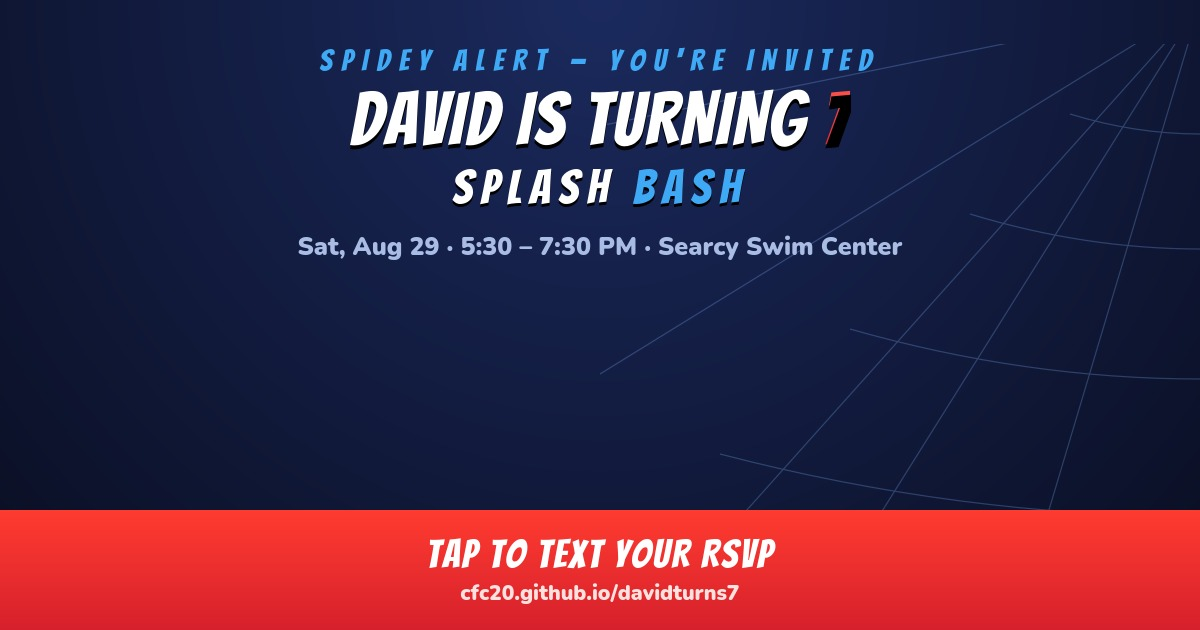
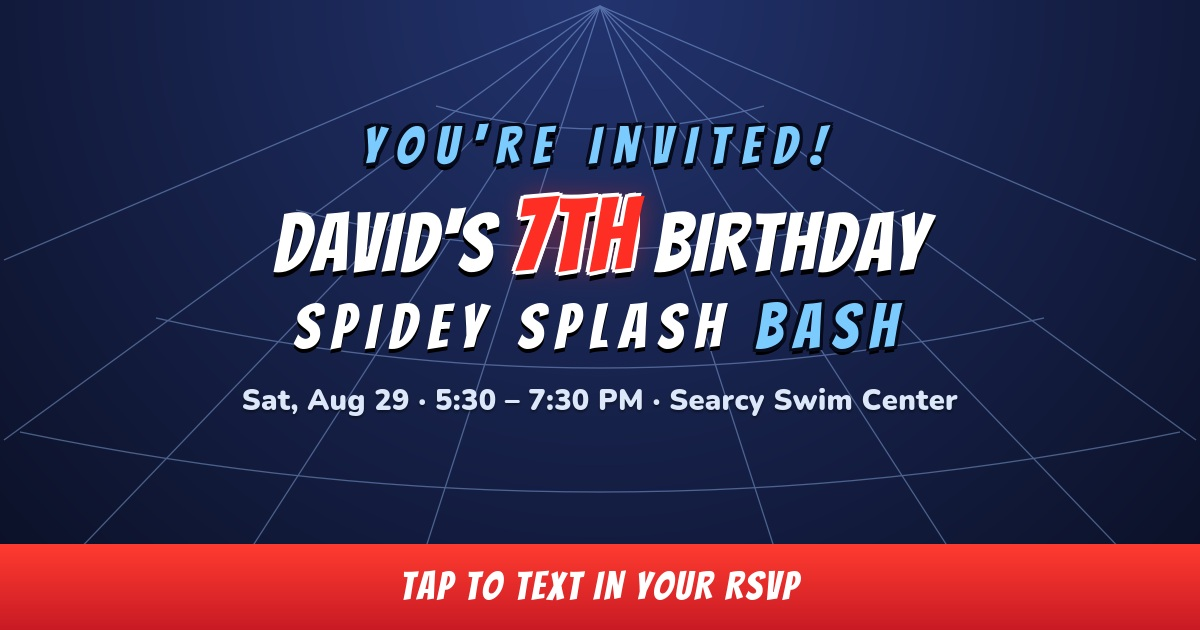
Add files via upload

diff --git a/index.html b/index.html
@@ -3,19 +3,19 @@
 <head>
 <meta charset="UTF-8">
 <meta name="viewport" content="width=device-width, initial-scale=1.0">
-<title>David's 7th Birthday — Spidey Splash Bash</title>
+<title>You're Invited! David's 7th Birthday - Spidey Splash Bash</title>
 <meta name="theme-color" content="#0B1026">
 
-<meta property="og:title" content="🕷 David's 7th Birthday Spidey Splash Bash - You're Invited!">
-<meta property="og:description" content="Saturday, August 29 · 5:30 to 7:30 PM · Searcy Swim Center. Private pool party, pizza and cupcakes. Tap to RSVP instantly.">
-<meta property="og:image" content="https://cfc20.github.io/davidturns7/preview.jpg">
+<meta property="og:title" content="You're Invited! 🕷 David's 7th Birthday - Spidey Splash Bash">
+<meta property="og:description" content="Sat, Aug 29 · 5:30 p.m. to 7:30 p.m. · Searcy Swim Center. Private pool party with pizza and cupcakes. Siblings welcome. Tap to RSVP instantly!">
+<meta property="og:image" content="https://cfc20.github.io/davidturns7/preview.jpg?v=9">
 <meta property="og:url" content="https://cfc20.github.io/davidturns7/">
 <meta property="og:type" content="website">
 <meta name="twitter:card" content="summary_large_image">
-<meta name="twitter:title" content="🕷 David's 7th Birthday Spidey Splash Bash - You're Invited!">
-<meta name="twitter:image" content="https://cfc20.github.io/davidturns7/preview.jpg">
-<link rel="apple-touch-icon" href="https://cfc20.github.io/davidturns7/icon.png">
-<link rel="icon" href="https://cfc20.github.io/davidturns7/icon.png">
+<meta name="twitter:title" content="You're Invited! 🕷 David's 7th Birthday - Spidey Splash Bash">
+<meta name="twitter:image" content="https://cfc20.github.io/davidturns7/preview.jpg?v=9">
+<link rel="icon" type="image/png" href="spider.png">
+<link rel="apple-touch-icon" href="spider.png">
 
 <link rel="preconnect" href="https://fonts.googleapis.com">
 <link rel="preconnect" href="https://fonts.gstatic.com" crossorigin>
@@ -24,7 +24,7 @@
 <style>
 :root{
   --ink:#0B1026; --ink2:#141C3D; --deep:#060A1A;
-  --red:#D6202C; --red2:#FF3B30; --blue:#1B5FE0; --sky:#3FA9F5;
+  --red:#D6202C; --red2:#FF3B30; --blue:#1B5FE0; --sky:#7CCBFF;
   --white:#fff; --mute:#A9BCE4;
 }
 *{margin:0;padding:0;box-sizing:border-box;-webkit-tap-highlight-color:transparent}
@@ -32,18 +32,19 @@ body{font-family:'Nunito',system-ui,sans-serif;background:var(--deep);color:#111
 .wrap{max-width:540px;margin:0 auto;background:#fff;box-shadow:0 0 70px rgba(0,0,0,.6);overflow:hidden}
 
 /* ============ HERO ============ */
-.hero{position:relative;background:radial-gradient(120% 90% at 50% 0%,#1B2A5E 0%,var(--ink) 55%,var(--deep) 100%);color:#fff;text-align:center;padding:46px 22px 42px;overflow:hidden}
-.web{position:absolute;inset:0;opacity:.30;pointer-events:none}
+.hero{position:relative;background:radial-gradient(120% 90% at 50% 0%,#22336E 0%,var(--ink) 55%,var(--deep) 100%);color:#fff;text-align:center;padding:74px 22px 34px;overflow:hidden}
+.web{position:absolute;top:0;left:0;width:100%;height:100%;opacity:.5;pointer-events:none}
 .hero-inner{position:relative;z-index:2}
-.spider{width:56px;height:56px;margin:0 auto 12px;display:block}
-.eyebrow{font-family:'Bangers',cursive;letter-spacing:5px;font-size:21px;color:var(--sky);text-shadow:0 2px 0 rgba(0,0,0,.5)}
-.name{font-family:'Bangers',cursive;font-size:60px;line-height:1;letter-spacing:2px;margin-top:6px;text-shadow:0 4px 0 #000,0 0 26px rgba(255,59,48,.5)}
-.seven{font-family:'Bangers',cursive;font-size:172px;line-height:.92;letter-spacing:2px;margin-top:2px;
+.spider{width:86px;height:auto;margin:0 auto 6px;display:block;filter:brightness(0) invert(1) drop-shadow(0 0 3px #0B1026) drop-shadow(0 3px 5px rgba(0,0,0,.8))}
+.eyebrow{font-family:'Bangers',cursive;letter-spacing:5px;font-size:22px;color:var(--sky);text-shadow:-2px -2px 0 #060A1A,2px -2px 0 #060A1A,-2px 2px 0 #060A1A,2px 2px 0 #060A1A,0 -2px 0 #060A1A,0 2px 0 #060A1A,-2px 0 0 #060A1A,2px 0 0 #060A1A,0 4px 0 #000}
+.name b{color:#FF2E24;font-weight:400;font-size:1.24em;letter-spacing:1px;text-shadow:-2px -2px 0 #fff,2px -2px 0 #fff,-2px 2px 0 #fff,2px 2px 0 #fff,0 -3px 0 #fff,0 3px 0 #fff,-3px 0 0 #fff,3px 0 0 #fff,0 7px 0 #000,0 0 22px rgba(255,46,36,.65)}
+.name{font-family:'Bangers',cursive;font-size:52px;line-height:1;letter-spacing:2px;margin-top:4px;text-shadow:0 4px 0 #000,0 0 26px rgba(255,59,48,.5)}
+.seven{font-family:'Bangers',cursive;font-size:150px;line-height:.9;letter-spacing:2px;margin-top:2px;
   background:linear-gradient(180deg,#FF5A4E 0%,var(--red) 55%,#8E0B14 100%);-webkit-background-clip:text;background-clip:text;color:transparent;
   filter:drop-shadow(0 6px 0 #000) drop-shadow(0 0 30px rgba(214,32,44,.55))}
-.tag{font-family:'Bangers',cursive;font-size:33px;letter-spacing:5px;color:#fff;margin-top:2px;text-shadow:0 3px 0 #000}
-.tag em{color:var(--sky);font-style:normal}
-.sub{font-size:15.5px;font-weight:800;color:var(--mute);margin-top:14px;line-height:1.5}
+.tag{font-family:'Bangers',cursive;font-size:29px;letter-spacing:3.5px;color:#fff;margin-top:2px;text-shadow:0 3px 0 #000}
+.tag em{color:var(--sky);font-style:normal;text-shadow:-2px -2px 0 #060A1A,2px -2px 0 #060A1A,-2px 2px 0 #060A1A,2px 2px 0 #060A1A,0 -2px 0 #060A1A,0 2px 0 #060A1A,-2px 0 0 #060A1A,2px 0 0 #060A1A,0 4px 0 #000}
+.sub{font-size:15.5px;font-weight:800;color:#D3E1F8;margin-top:14px;line-height:1.5;text-shadow:0 2px 3px rgba(0,0,0,.65)}
 
 /* ============ STRIPE ============ */
 .stripe{height:12px;background:repeating-linear-gradient(135deg,var(--red) 0 26px,#B21621 26px 52px)}
@@ -57,6 +58,7 @@ body{font-family:'Nunito',system-ui,sans-serif;background:var(--deep);color:#111
 .row p{font-size:19.5px;font-weight:900;color:var(--ink);line-height:1.3;margin-top:1px}
 .row small{display:block;font-size:14px;font-weight:800;color:#61708F;margin-top:2px}
 .row a{color:var(--blue);text-decoration:none;border-bottom:2px solid #cfe0fb}
+.tapdir{display:inline-block;margin-top:6px;color:#12579E;font-weight:900;font-size:13.5px}
 .chips{display:flex;flex-wrap:wrap;gap:7px;margin-top:7px}
 .chip{background:#EAF1FE;color:#1746A6;font-weight:900;font-size:13px;padding:6px 13px;border-radius:999px}
 
@@ -67,17 +69,22 @@ body{font-family:'Nunito',system-ui,sans-serif;background:var(--deep);color:#111
 
 /* ============ RSVP ============ */
 .rsvp{background:radial-gradient(110% 80% at 50% 0%,#1B2A5E,var(--ink) 60%,var(--deep));color:#fff;text-align:center;padding:38px 22px 44px;position:relative;overflow:hidden}
-.rsvp .web{opacity:.22}
+.rsvp .web{opacity:.32}
 .rsvp-inner{position:relative;z-index:2}
 .rsvp h2{font-family:'Bangers',cursive;font-size:40px;letter-spacing:5px;text-shadow:0 3px 0 #000}
 .by{display:inline-block;background:var(--red);font-weight:900;font-size:13.5px;letter-spacing:.6px;padding:8px 18px;border-radius:999px;margin-top:10px;box-shadow:0 3px 0 #7E0B12}
-.cta{display:block;max-width:360px;margin:20px auto 0;padding:20px 18px;border-radius:16px;text-decoration:none;color:#fff;
-  font-family:'Bangers',cursive;font-size:25px;letter-spacing:1.6px;
-  background:linear-gradient(180deg,var(--red2),var(--red));box-shadow:0 6px 0 #7E0B12,0 12px 26px rgba(255,59,48,.35);
-  border:2px solid rgba(255,255,255,.18)}
-.cta small{display:block;font-family:'Nunito',sans-serif;font-weight:800;font-size:13px;letter-spacing:0;margin-top:5px;color:#FFE2DF}
+.cta{display:block;max-width:400px;margin:24px auto 0;padding:26px 30px 24px;border-radius:18px;text-decoration:none;color:#fff;font-family:'Bangers',cursive;font-size:24px;letter-spacing:1.4px;line-height:1.2;background:linear-gradient(180deg,var(--red2),var(--red));box-shadow:0 6px 0 #7E0B12,0 12px 26px rgba(255,59,48,.35);border:2px solid rgba(255,255,255,.18)}
+.cta span{display:inline-block;vertical-align:middle}
+.cta-spider{width:46px;height:auto;display:inline-block;vertical-align:middle;margin:0 14px 3px 0;filter:brightness(0) invert(1) drop-shadow(0 2px 4px rgba(0,0,0,.6))}
+.cta small{display:block;font-family:'Nunito',sans-serif;font-weight:800;font-size:13px;letter-spacing:0;margin-top:6px;line-height:1.35;color:#FFE2DF}
 .cta:active{transform:translateY(4px);box-shadow:0 2px 0 #7E0B12}
 .helper{font-size:13.5px;font-weight:800;color:var(--mute);margin-top:16px;line-height:1.6}
+.calbox{margin:26px auto 0;max-width:400px}
+.callabel{font-weight:900;font-size:13px;letter-spacing:2.5px;color:#A9BCE4;text-transform:uppercase;margin-bottom:12px}
+.calrow{display:flex;gap:12px;justify-content:center}
+.calbtn{flex:1;display:block;padding:15px 10px;border-radius:13px;text-decoration:none;background:rgba(255,255,255,.10);border:2px solid rgba(255,255,255,.28);color:#fff;font-family:'Bangers',cursive;font-size:18px;letter-spacing:1.2px;line-height:1.15}
+.calbtn small{display:block;font-family:'Nunito',sans-serif;font-weight:800;font-size:11.5px;letter-spacing:0;color:#C9D9F5;margin-top:4px}
+.calbtn:active{background:rgba(255,255,255,.2)}
 .call{display:inline-block;margin-top:16px;color:#fff;text-decoration:none;font-weight:900;font-size:17px;border-bottom:2px solid rgba(255,255,255,.3);padding-bottom:2px}
 .contact{font-weight:900;font-size:14px;color:var(--mute);margin-top:22px}
 .foot{background:#03060F;text-align:center;padding:15px;font-size:12px;font-weight:800;color:#48597F;letter-spacing:.4px}
@@ -95,25 +102,21 @@ body{font-family:'Nunito',system-ui,sans-serif;background:var(--deep);color:#111
 
 <!-- HERO -->
 <section class="hero">
-  <svg class="web" viewBox="0 0 400 300" preserveAspectRatio="none" xmlns="http://www.w3.org/2000/svg">
-    <g stroke="#7FB2FF" stroke-width="1" fill="none" opacity=".9">
-      <path d="M0 0 L400 300 M0 0 L400 150 M0 0 L400 30 M0 0 L250 300 M0 0 L90 300 M0 0 L0 300 M0 0 L400 0"/>
-      <path d="M60 22 Q40 52 22 60"/><path d="M120 45 Q84 104 45 122"/><path d="M186 70 Q128 160 70 188"/>
-      <path d="M252 96 Q172 216 96 252"/><path d="M318 122 Q216 272 122 300"/>
+  <svg class="web" viewBox="0 0 540 460" preserveAspectRatio="none" xmlns="http://www.w3.org/2000/svg">
+    <g stroke="#9CC4FF" stroke-width="1.2" fill="none" opacity="1">
+      <path d="M270 10 L2 200 M270 10 L2 330 M270 10 L2 458 M270 10 L92 458 M270 10 L181 458"/>
+      <path d="M270 10 L538 200 M270 10 L538 330 M270 10 L538 458 M270 10 L448 458 M270 10 L359 458"/>
+      <path d="M196 78 Q270 112 344 78"/>
+      <path d="M124 152 Q270 208 416 152"/>
+      <path d="M56 232 Q270 302 484 232"/>
+      <path d="M14 318 Q270 398 526 318"/>
     </g>
   </svg>
   <div class="hero-inner">
-    <svg class="spider" viewBox="0 0 64 64" xmlns="http://www.w3.org/2000/svg" aria-hidden="true">
-      <g stroke="#fff" stroke-width="3" stroke-linecap="round" fill="none">
-        <path d="M26 26 L10 14 L4 22 M26 32 L6 32 M26 38 L10 50 M38 26 L54 14 L60 22 M38 32 L58 32 M38 38 L54 50"/>
-      </g>
-      <ellipse cx="32" cy="24" rx="7" ry="6" fill="#fff"/>
-      <ellipse cx="32" cy="38" rx="10" ry="12" fill="#fff"/>
-    </svg>
-    <div class="eyebrow">SPIDEY ALERT</div>
-    <div class="name">DAVID IS TURNING</div>
-    <div class="seven">7</div>
-    <div class="tag">SPLASH <em>BASH</em></div>
+    <img class="spider" src="spider.png" alt="" onerror="this.style.display='none'">
+    <div class="eyebrow">YOU'RE INVITED!</div>
+    <div class="name">DAVID'S <b>7TH</b> BIRTHDAY</div>
+        <div class="tag">SPIDEY SPLASH <em>BASH</em></div>
     <p class="sub">Suit up for a private pool party!<br>Pizza, cupcakes &amp; cannonballs.</p>
   </div>
 </section>
@@ -124,17 +127,17 @@ body{font-family:'Nunito',system-ui,sans-serif;background:var(--deep);color:#111
 <section class="details">
   <div class="row"><div class="ico">📅</div><div>
     <h3>When</h3>
-    <p>Saturday, August 29, 2026<small>5:30 PM – 7:30 PM</small></p>
+    <p>Saturday, August 29, 2026<small>5:30 p.m. to 7:30 p.m.</small></p>
   </div></div>
 
   <div class="row"><div class="ico">📍</div><div>
     <h3>Where</h3>
-    <p><a href="https://maps.google.com/?q=Searcy+Swim+Center,+525+Recreation+Wy,+Searcy,+AR+72143">Searcy Swim Center</a><small>525 Recreation Wy, Searcy, AR 72143 · tap for directions</small></p>
+    <p><a href="https://www.google.com/maps/dir/?api=1&destination=Searcy+Swim+Center%2C+525+Recreation+Wy%2C+Searcy%2C+AR+72143">Searcy Swim Center</a><small>525 Recreation Wy, Searcy, AR 72143<br><span class="tapdir">Tap for directions</span></small></p>
   </div></div>
 
   <div class="row"><div class="ico">🍕</div><div>
     <h3>Food</h3>
-    <p>Pizza &amp; Cupcakes<small>Tell us about any allergies when you RSVP</small></p>
+    <p>Pizza &amp; Cupcakes</p>
   </div></div>
 
   <div class="row"><div class="ico">🎒</div><div>
@@ -145,17 +148,18 @@ body{font-family:'Nunito',system-ui,sans-serif;background:var(--deep);color:#111
 
 <!-- ALERT -->
 <div class="alert">
-  <h3>⏰ PLEASE ARRIVE BY 5:30 SHARP</h3>
-  <p>We have the pool privately from 5:30 to 7:30 only. Every minute counts!</p>
+  <h3>⏰ PLEASE ARRIVE BY 5:30 P.M. SHARP</h3>
+  <p>We have the pool privately from 5:30 p.m. to 7:30 p.m. only. Every minute counts!</p>
 </div>
 
 <!-- RSVP -->
 <section class="rsvp">
-  <svg class="web" viewBox="0 0 400 300" preserveAspectRatio="none" xmlns="http://www.w3.org/2000/svg">
-    <g stroke="#7FB2FF" stroke-width="1" fill="none">
-      <path d="M400 0 L0 300 M400 0 L0 150 M400 0 L0 30 M400 0 L150 300 M400 0 L310 300 M400 0 L400 300"/>
-      <path d="M340 22 Q360 52 378 60"/><path d="M280 45 Q316 104 355 122"/><path d="M214 70 Q272 160 330 188"/>
-      <path d="M148 96 Q228 216 304 252"/>
+  <svg class="web" viewBox="0 0 540 460" preserveAspectRatio="none" xmlns="http://www.w3.org/2000/svg">
+    <g stroke="#9CC4FF" stroke-width="1.2" fill="none">
+      <path d="M270 10 L2 200 M270 10 L2 330 M270 10 L2 458 M270 10 L92 458 M270 10 L181 458"/>
+      <path d="M270 10 L538 200 M270 10 L538 330 M270 10 L538 458 M270 10 L448 458 M270 10 L359 458"/>
+      <path d="M196 78 Q270 112 344 78"/><path d="M124 152 Q270 208 416 152"/>
+      <path d="M56 232 Q270 302 484 232"/><path d="M14 318 Q270 398 526 318"/>
     </g>
   </svg>
   <div class="rsvp-inner">
@@ -163,18 +167,24 @@ body{font-family:'Nunito',system-ui,sans-serif;background:var(--deep);color:#111
     <div class="by">Please reply by Wed, August 26</div>
 
     <a class="cta" href="sms:+19562075879?&body=Hi%20Crystal%21%20Confirming%20David%27s%207th%20Birthday%20%F0%9F%95%B7%EF%B8%8F%0AYour%20name%3A%20%0AYour%20number%3A%20%0AChild%27s%20name%3A%20%0ATotal%20attendees%20%28kids%20%2B%20adults%29%3A%20%0AFood%20allergies%3A%20">
-      🕸 TAP TO TEXT YOUR RSVP
-      <small>Opens your messages with everything filled in. Just add your info and hit send.</small>
+      <img class="cta-spider" src="spider.png" alt="" onerror="this.style.display='none'">
+      <span>TAP TO TEXT IN YOUR RSVP</span>
+      <small>Your message is ready. Fill it in and send.</small>
     </a>
 
-    <p class="helper">Works on iPhone and Android.<br>Takes about 15 seconds.</p>
+    <div class="calbox">
+      <div class="callabel">Add to your calendar</div>
+      <div class="calrow">
+        <a class="calbtn" href="https://calendar.google.com/calendar/render?action=TEMPLATE&amp;text=David%27s%207th%20Birthday%20-%20Spidey%20Splash%20Bash&amp;dates=20260829T223000Z/20260830T003000Z&amp;details=Private%20pool%20party%20for%20David%27s%207th%20birthday%21%0A%0APlease%20arrive%20by%205%3A30%20p.m.%20sharp%20-%20the%20pool%20is%20reserved%205%3A30%20to%207%3A30%20p.m.%20only.%0APizza%20and%20cupcakes%20provided.%20Bring%20a%20swimsuit%20and%20towel%3B%20pool%20toys%20welcome.%20Siblings%20welcome%21%0A%0AQuestions%3A%20Crystal%20Crouch%20%28956%29%20207-5879&amp;location=Searcy%20Swim%20Center%2C%20525%20Recreation%20Wy%2C%20Searcy%2C%20AR%2072143" target="_blank" rel="noopener">GOOGLE<small>Calendar</small></a>
+        <a class="calbtn" href="event.ics" download>APPLE<small>&amp; Outlook</small></a>
+      </div>
+    </div>
 
     <a class="call" href="tel:+19562075879">Or call / text (956) 207-5879</a>
     <div class="contact">Crystal Crouch · David's mom</div>
   </div>
 </section>
 
-<div class="foot">DAVID'S 7TH BIRTHDAY · SEARCY SWIM CENTER · AUG 29, 2026</div>
 </div>
 </body>
 </html>

diff --git a/DEPLOY.md b/DEPLOY.md
@@ -1,0 +1,59 @@
+# davidturns7 — deployment manifest
+
+Repo: github.com/Cfc20/davidturns7 · Branch: `master` · Live: https://cfc20.github.io/davidturns7
+
+## Files that must be in the repo root
+
+| File | Source | Status |
+|---|---|---|
+| `index.html` | provided by Claude | ready |
+| `preview.jpg` | provided by Claude | ready |
+| `event.ics` | provided by Claude | ready |
+| `spider.png` | **YOUR drawing — you upload this** | MISSING |
+| `.github/workflows/static.yml` | already in repo | done |
+
+## Why the favicon is blank right now
+
+`index.html` line 17–18 points the browser icon and the iPhone home-screen icon at
+`spider.png`. That file is not in the repo, so there is nothing to load.
+
+Upload `spider.png` and the favicon appears. No code change needed.
+
+## What each file does
+
+- **index.html** — the invite page. References `spider.png` (hero + RSVP button + favicon)
+  and `event.ics` (calendar buttons).
+- **preview.jpg** — the image that shows in text-message and social link previews.
+  Referenced by absolute URL in the `og:image` tag, cache-busted at `?v=9`.
+- **event.ics** — Apple/Outlook calendar file. Google Calendar uses a direct link, no file.
+- **spider.png** — your artwork. Drives hero, RSVP button, browser tab, home-screen icon.
+
+## Requirements for spider.png
+
+- Filename exactly `spider.png` — lowercase, no spaces. GitHub is case-sensitive.
+- PNG format. If yours is a .jpg, either convert it or tell Claude to change the reference.
+- Transparent or white background both work; CSS inverts it to white on the dark sections.
+
+## Upload steps
+
+1. github.com/Cfc20/davidturns7 → **Code** tab
+2. **Add file** → **Upload files**
+3. Drag in: `index.html`, `preview.jpg`, `event.ics`, `spider.png`
+4. **Commit changes**
+5. **Actions** tab — wait for the green check (about 1 minute)
+
+## Verify after deploy
+
+1. Load https://cfc20.github.io/davidturns7 — spider shows at top
+2. Browser tab shows the spider icon
+3. Tap the red button — messages app opens with the RSVP prefilled
+4. Tap "Searcy Swim Center" — maps app opens with directions
+5. Tap GOOGLE / APPLE — event lands on the calendar, Aug 29 2026, 5:30–7:30 p.m. CDT
+6. Text yourself `https://cfc20.github.io/davidturns7/?v=9` — preview card renders
+
+## Notes
+
+- Preview images cache hard in iMessage. Change the `?v=` number to force a refresh.
+- `preview.jpg` has no spider on it. It is a flat generated image; adding your artwork
+  to it requires editing the JPG directly (Canva, Preview, etc.) and re-exporting at
+  1200×630 with the same filename.
